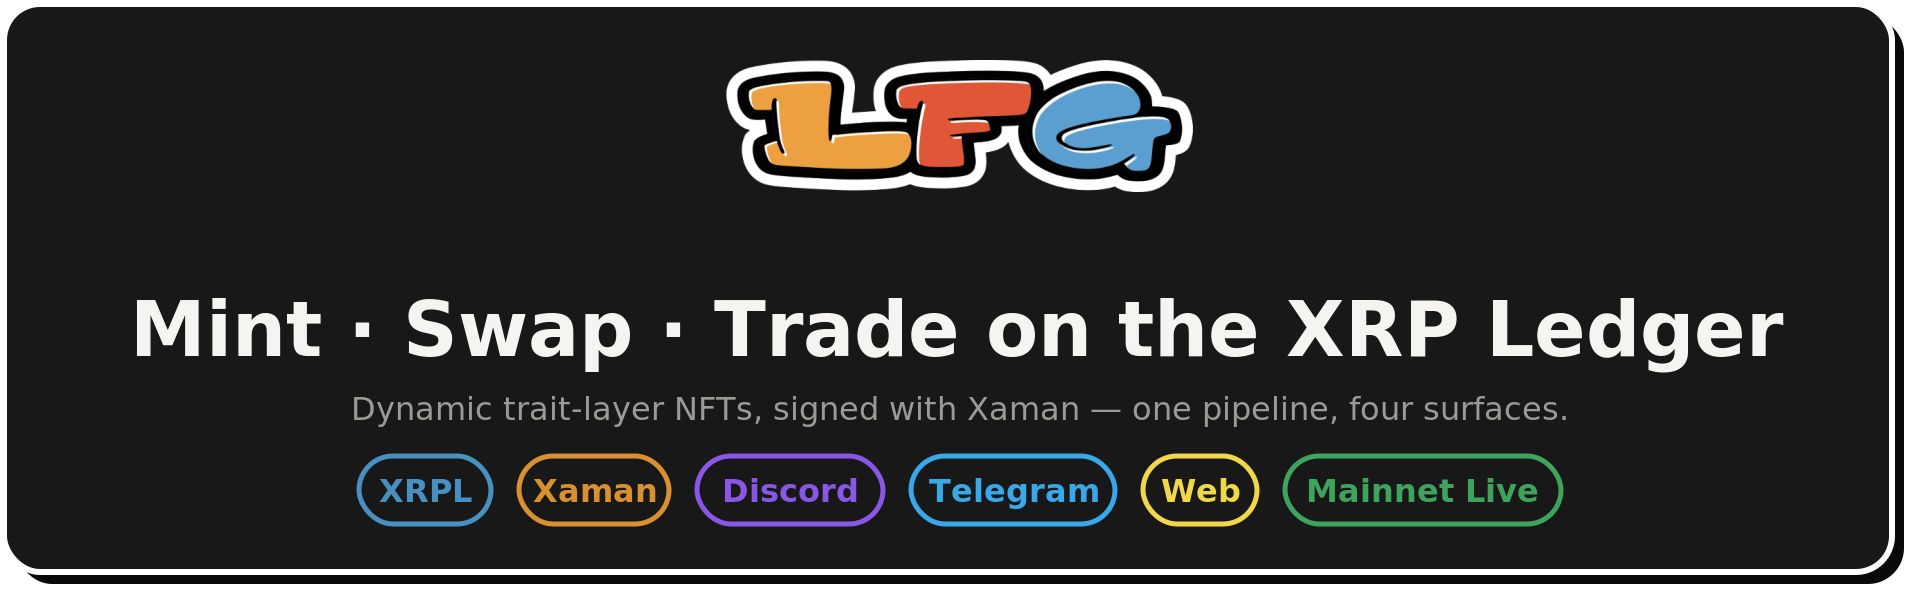
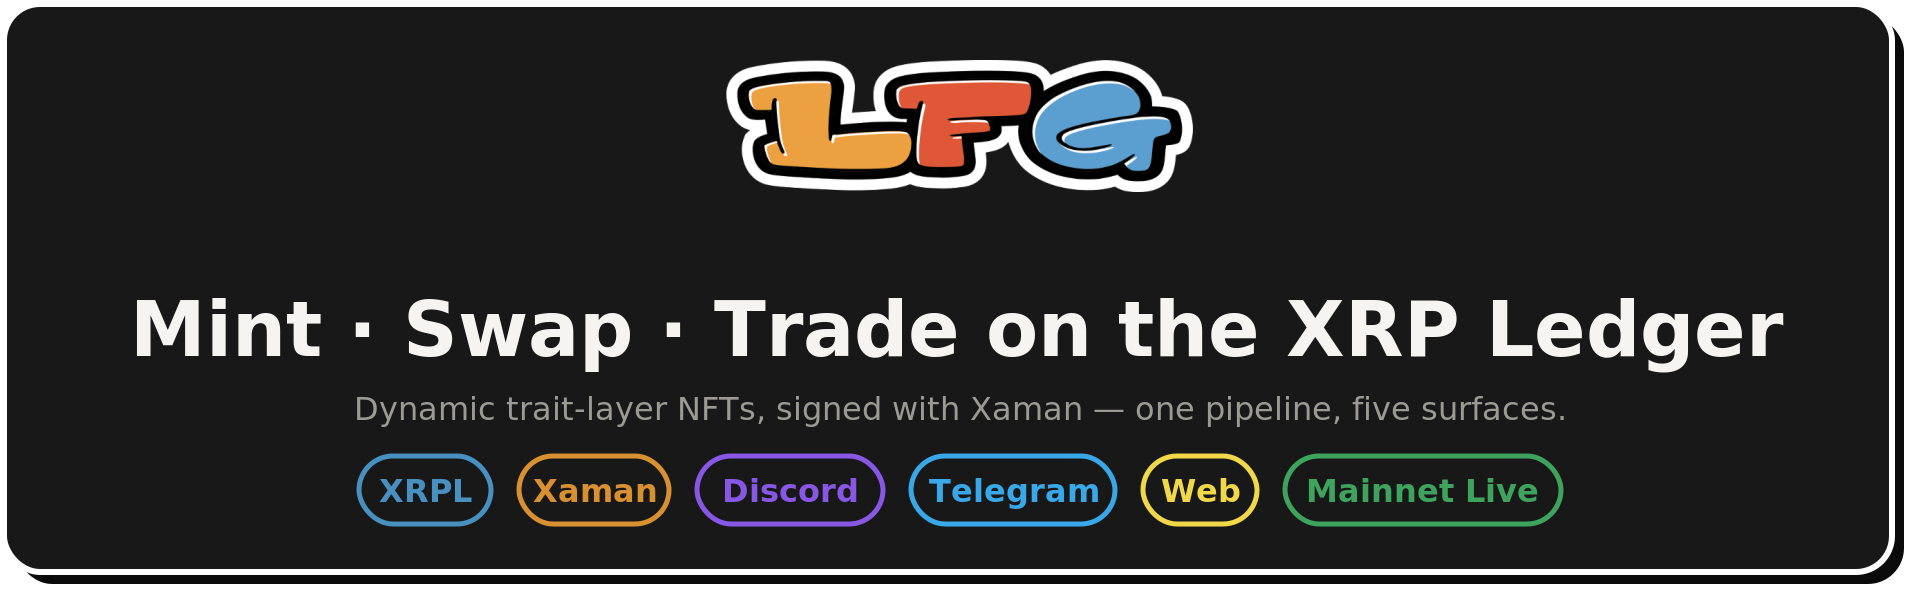
docs(README): five client surfaces — split Telegram bot and Mini App, drop the X-funnel tile
Recovered from an uncommitted working-copy edit in ~/LFG (stashed
2026-09-08 when it blocked the prod fast-forward). The Telegram Mini App
(#89) is its own client surface, not a mode of the Telegram bot, and the
X share-card path is a link into the PWA rather than a surface of its own:
README copy + badge, architecture diagram row 1 (rendered by
scripts/render_architecture_svg.py — regenerated output is unchanged),
dashboard SURFACES = 5, and a render test pinning the five titles.

Changed region(s): [[0.1875, 0.66, 0.5625, 0.72], [0.5938, 0.66, 0.8125, 0.72]]

diff --git a/scripts/render_architecture_svg.py b/scripts/render_architecture_svg.py
@@ -1,7 +1,7 @@
 """Regenerate the README architecture diagram (assets/architecture.svg).
 
-A brand-kit block diagram of the system: the four client surfaces plus the
-X funnel path flowing into the shared lfg_service backend, lfg_core beneath
+A brand-kit block diagram of the system: the five client surfaces flowing
+into the shared lfg_service backend, lfg_core beneath
 it (with the session-flow modules discovered live from lfg_core/*_flow.py,
 so a new flow module appears in the diagram automatically), the listener
 process group with its per-network SQLite stores, and the external systems
@@ -137,9 +137,9 @@ def layout_chips(
 
 def build_svg(flow_modules: list[str]) -> str:
     label = (
-        "LFG system architecture: four client surfaces (Discord bot, Discord "
-        "Activity, Telegram bot + Mini App, and the web app at "
-        "build.letseffinggo.com) plus the X funnel path all call the shared "
+        "LFG system architecture: five client surfaces (Discord bot, Discord "
+        "Activity, Telegram bot, Telegram Mini App, and the web app at "
+        "build.letseffinggo.com) all call the shared "
         "lfg_service backend, which runs the session state machines over "
         "lfg_core (" + ", ".join(flow_modules) + "). A separate listener "
         "process group streams the Clio transaction feed into per-network "
@@ -173,13 +173,13 @@ def build_svg(flow_modules: list[str]) -> str:
         "no custody</text>"
     )
 
-    # Row 1: four client surfaces + the X funnel path
+    # Row 1: five client surfaces
     surfaces = [
         ("Discord Bot", "slash commands", GREEN),
         ("Discord Activity", "embedded client", PURPLE),
-        ("Telegram", "bot + Mini App", YELLOW),
+        ("Telegram Bot", "chat client", YELLOW),
+        ("Telegram Mini App", "embedded client", BLUE),
         ("Web App", "build.letseffinggo.com", ORANGE),
-        ("X funnel", "share cards → PWA", BLUE),
     ]
     row1_y, row1_h, gap = 60, 62, 8
     sw = (AREA_W - gap * (len(surfaces) - 1)) / len(surfaces)  # 158.8
@@ -187,7 +187,17 @@ def build_svg(flow_modules: list[str]) -> str:
     for i, (title, sub, accent) in enumerate(surfaces):
         sx = PAD + i * (sw + gap)
         centers.append(sx + sw / 2)
-        parts += box(sx, row1_y, sw, row1_h, accent, title, sub, title_size=12, sub_size=9.5)
+        parts += box(
+            sx,
+            row1_y,
+            sw,
+            row1_h,
+            accent,
+            title,
+            sub,
+            title_size=11.5,
+            sub_size=9.5,
+        )
 
     # Row 2: lfg_service
     svc_x, svc_w = 170, 560

diff --git a/tests/test_render_architecture_svg.py b/tests/test_render_architecture_svg.py
@@ -42,6 +42,19 @@ def test_output_is_well_formed_xml_and_contains_flows() -> None:
         assert landmark in svg
 
 
+def test_top_row_contains_five_clients_not_a_social_funnel() -> None:
+    svg = ras.build_svg(ras.discover_flow_modules())
+    for surface in (
+        "Discord Bot",
+        "Discord Activity",
+        "Telegram Bot",
+        "Telegram Mini App",
+        "Web App",
+    ):
+        assert surface in svg
+    assert "X funnel" not in svg
+
+
 def test_new_flow_module_appears_automatically(tmp_path: Path) -> None:
     (tmp_path / "mint_flow.py").write_text("")
     base = ras.build_svg(ras.discover_flow_modules(tmp_path))

diff --git a/scripts/readme_dashboard.py b/scripts/readme_dashboard.py
@@ -35,9 +35,9 @@ from scripts._brand import (
 # Last commit before the hackathon started (2026-06-21), pinned so the
 # commit-count and velocity series can't drift if history is ever touched.
 BASELINE_SHA = "e296308a57296a8d2f04497f7fc8872112e8ed49"
-# Discord bot, Telegram bot, the Discord Activity webapp, and the standalone
-# web app at build.letseffinggo.com.
-SURFACES = 4
+# Discord bot, Discord Activity, Telegram bot, Telegram Mini App, and the
+# standalone web app at build.letseffinggo.com.
+SURFACES = 5
 TEST_DEF_RE = r"^\s*def test_"
 SVG_PATH = Path("assets/dashboard.svg")
 

diff --git a/README.md b/README.md
@@ -9,7 +9,7 @@
 <a href="https://build.letseffinggo.com"><img src="https://img.shields.io/badge/web_app-live-D89030?style=flat-square" alt="Web app live at build.letseffinggo.com"></a>
 <img src="https://img.shields.io/badge/XRPL-NFTs-3E8DE3?style=flat-square" alt="Built on the XRP Ledger">
 <img src="https://img.shields.io/badge/Xaman-signing-F76B1C?style=flat-square" alt="Signed in Xaman">
-<img src="https://img.shields.io/badge/surfaces-Discord%20%C2%B7%20Telegram%20%C2%B7%20Web-5865F2?style=flat-square" alt="Surfaces: Discord, Telegram, Web">
+<img src="https://img.shields.io/badge/surfaces-5-5865F2?style=flat-square" alt="Five surfaces: Discord bot, Discord Activity, Telegram bot, Telegram Mini App, and web app">
 <img src="https://img.shields.io/badge/X-share%20%E2%86%92%20mint-000000?style=flat-square&logo=x&logoColor=white" alt="Share on X — per-NFT cards funnel into the app">
 <img src="https://img.shields.io/badge/PWA-installable-6B4FBB?style=flat-square" alt="Installable PWA">
 <img src="https://img.shields.io/badge/tests-4%2C108-2ea043?style=flat-square" alt="4,108 tests">
@@ -33,7 +33,7 @@
 
 You mint NFTs — one at a time, or many behind a single payment — swap individual traits between NFTs you own, and list, browse, and buy on an in-app marketplace. Two project-issued tokens drive the economy: **LFGO** pays for mints, and **BRIX** pays trait-swap fees and prices trait listings (with an XRP→BRIX AMM on-ramp for buyers who hold neither). Characters trade in XRP; traits trade in BRIX.
 
-Every transaction is signed by the user in the [Xaman](https://xaman.app/) wallet (formerly XUMM) — **no private keys ever touch the app** — and carries on-chain **provenance memos** recording who signed, from which surface, and what action it was. The same flows run from four client surfaces on one shared backend: a Discord bot, a Discord Activity, a Telegram bot, and a standalone web app at [build.letseffinggo.com](https://build.letseffinggo.com). The web app is an **installable PWA** that runs anywhere a browser does — including X's own in-app browser, so a mint can start from a timeline via each NFT's **Share on X** card page.
+Every transaction is signed by the user in the [Xaman](https://xaman.app/) wallet (formerly XUMM) — **no private keys ever touch the app** — and carries on-chain **provenance memos** recording who signed, from which surface, and what action it was. The same flows run from five client surfaces on one shared backend: a Discord bot, a Discord Activity, a Telegram bot, a Telegram Mini App, and a standalone web app at [build.letseffinggo.com](https://build.letseffinggo.com). The web app is an **installable PWA** that runs anywhere a browser does — including the in-app browser of X or any other social platform, so a mint can start from a shared link without creating another client surface.
 
 **The collection is live on XRPL mainnet** — cut over **2026-07-10** (3,535 editions — minted NFTs — reconciled with zero drift) and grown to **~4,000 live editions** since.
 
@@ -98,7 +98,7 @@ Short walkthroughs of each core flow:
 <td>📲 <b>Xaman push delivery</b><br>Sign requests pushed straight to the app, with QR fallback.</td>
 </tr>
 <tr>
-<td>🌐 <b>Four surfaces, one backend</b><br>Discord bot, Telegram bot, Discord Activity, and <a href="https://build.letseffinggo.com">the web app</a> on <code>lfg_service</code>.</td>
+<td>🌐 <b>Five surfaces, one backend</b><br>Discord bot + Activity, Telegram bot + Mini App, and <a href="https://build.letseffinggo.com">the web app</a> on <code>lfg_service</code>.</td>
 <td>🏆 <b>8 leaderboards</b><br>Holders, swaps, builds, per-NFT swap counts, BRIX richlist, LP, BRIX earned, rarity — with time windows.</td>
 </tr>
 <tr>
@@ -192,19 +192,20 @@ A nightly reconcile + conservation audit (`scripts/audit_trait_economy.py`) guar
 ## Architecture
 
 <div align="center">
-<img src="assets/architecture.svg" alt="LFG architecture — four client surfaces plus the X funnel into lfg_service, lfg_core flow modules, listener processes with per-network SQLite, and XRPL, Xaman, and BunnyCDN" width="820">
+<img src="assets/architecture.svg" alt="LFG architecture — five client surfaces into lfg_service, lfg_core flow modules, listener processes with per-network SQLite, and XRPL, Xaman, and BunnyCDN" width="820">
 </div>
 
-Four thin client surfaces all talk over REST/WS to one aiohttp backend (`lfg_service`):
+Five thin client surfaces all talk over REST/WS to one aiohttp backend (`lfg_service`):
 
 - **Discord bot** — the classic in-chat surface, fully refactored onto the shared backend
 - **Discord Activity** — the embedded web client
-- **Telegram bot** — which can alternatively serve the same client as a Mini App
+- **Telegram bot** — the in-chat command and inline-keyboard client
+- **Telegram Mini App** — the embedded web client launched from Telegram
 - **Web app** — the same no-build client, served by GitHub Pages at [build.letseffinggo.com](https://build.letseffinggo.com)
 
 `lfg_service` runs the mint / swap / market / economy session state machines, submits every XRPL transaction, and builds every Xaman signing payload. Shared domain logic lives in `lfg_core`; a **separate listener process group** streams the Clio transaction feed into the per-network SQLite index and ledger-history stores that the backend reads. **No private keys ever touch the app** — all signing happens in the user's Xaman wallet, images and metadata are hosted on BunnyCDN, and the NFT schema is pinned on IPFS.
 
-A fifth path in — not a client surface — is the **X funnel**: `lfg_service` also serves per-NFT share-card pages whose Twitter/OG tags render a branded card on X and whose body forwards humans into the web app, which, as an installable PWA, mints happily from X's in-app browser. The brand-account auto-poster (`run_x.py`) is built and flag-gated behind `X_ENABLED`.
+Social links are entry routes into the existing **web app**, not additional client surfaces: `lfg_service` serves per-NFT share-card pages whose Twitter/OG tags render a branded card and whose body forwards humans into the installable PWA. That works in X's in-app browser—or any social platform's in-app browser. The X brand-account auto-poster (`run_x.py`) is built and flag-gated behind `X_ENABLED`.
 
 <div align="center">
 <img src="assets/tech_overview.svg" alt="LFG under the hood" width="820">
